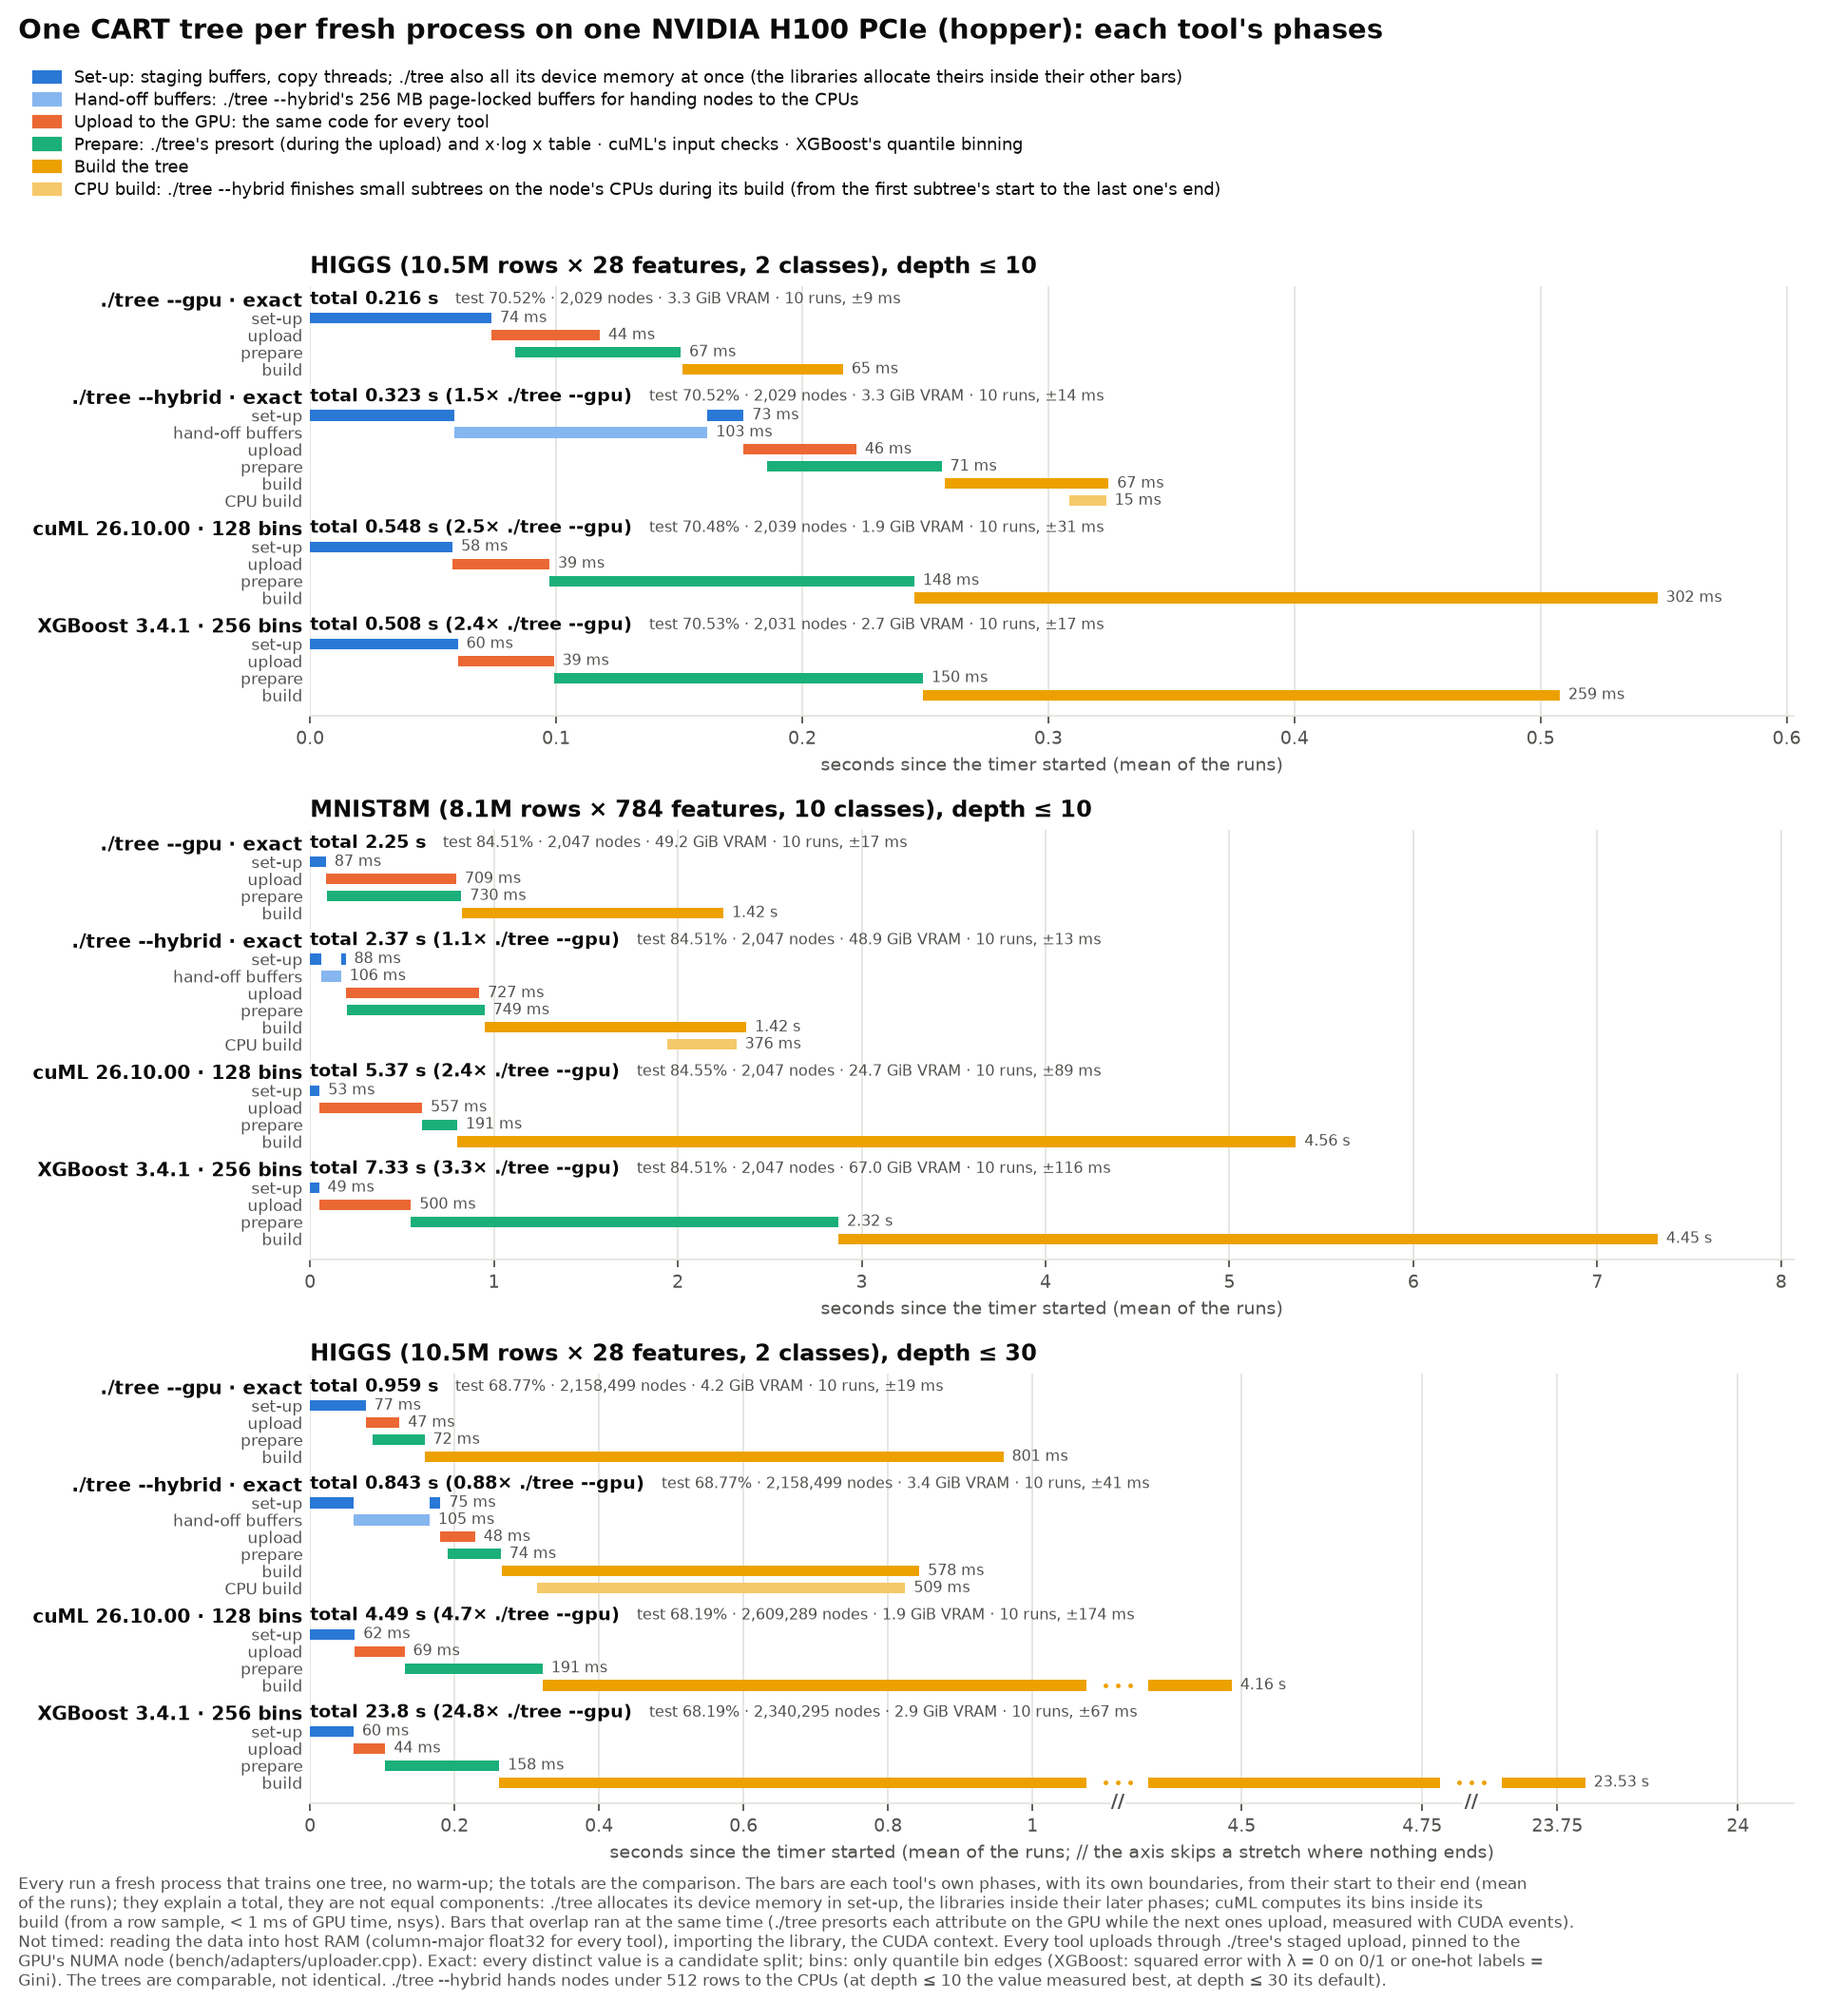
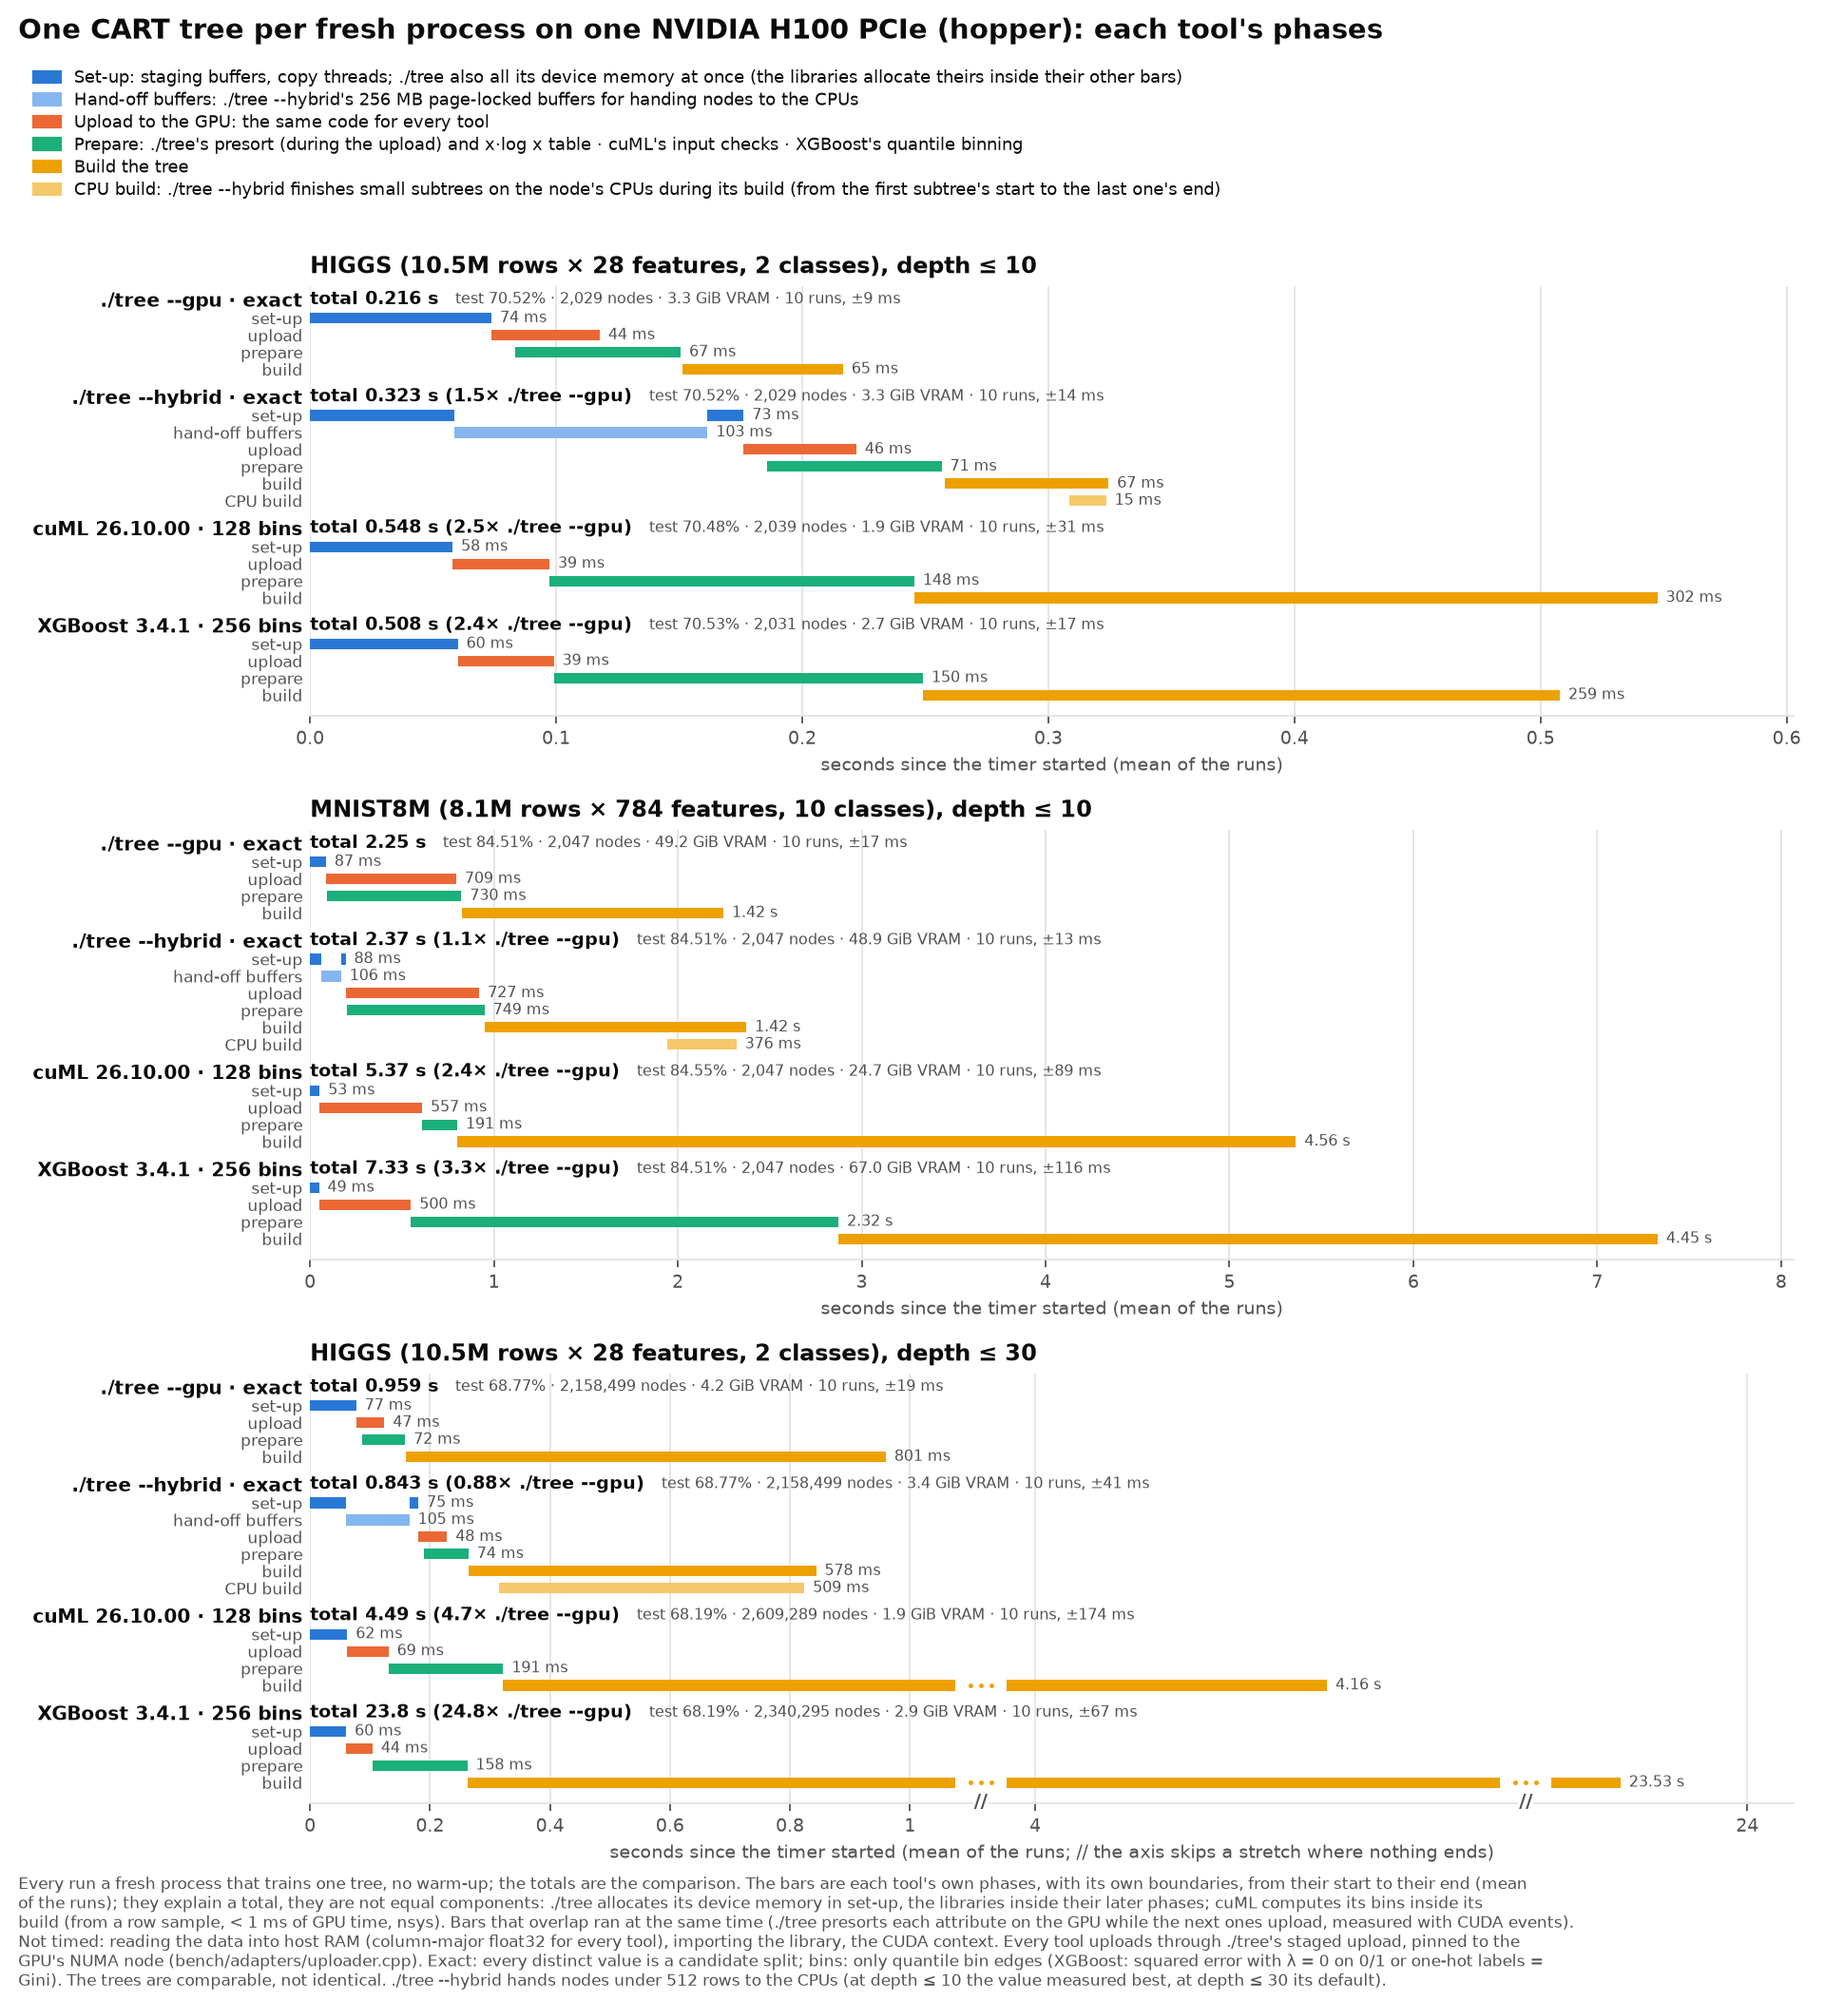
gpu_steps_chart.py: whole seconds on the axis after a break

diff --git a/bench/gpu_steps_chart.py b/bench/gpu_steps_chart.py
@@ -19,7 +19,7 @@ Where the times come from (all since the timer started, the mean of the runs):
   cuML,     gpubench.py: the host clock at each section's end, after
   XGBoost   cudaDeviceSynchronize, so its GPU work is inside it
 """
-import argparse, csv, json, statistics as st, textwrap
+import argparse, csv, json, math, statistics as st, textwrap
 from collections import defaultdict
 from pathlib import Path
 
@@ -170,7 +170,9 @@ def windows_of(tools):
         else:
             clusters.append([x, x])
     out = [(0.0, clusters[0][1] + 0.12 * lead)]
-    out += [(lo - 0.12 * lead, hi + 0.3 * lead) for lo, hi in clusters[1:]]  # room for the label after the end
+    for lo, hi in clusters[1:]:  # room for the label after the end, and the whole second nearest the end
+        whole = round(hi)
+        out.append((min(lo - 0.12 * lead, whole - 0.05 * lead), max(hi + 0.3 * lead, whole + 0.05 * lead)))
     return out
 
 
@@ -188,7 +190,8 @@ def axis_scale(ax, windows, gap):
     ax.set_xscale("function", functions=(lambda v: np.interp(v, data, shown), lambda v: np.interp(v, shown, data)))
     ticks = []
     for i, (lo, hi) in enumerate(windows):
-        ticks += [v for v in MaxNLocator(6 if i == 0 else 2).tick_values(lo, hi) if lo <= v <= hi]
+        ticks += ([v for v in MaxNLocator(6).tick_values(lo, hi) if lo <= v <= hi] if i == 0
+                  else list(range(math.ceil(lo), math.floor(hi) + 1)))  # after a break: whole seconds
     ax.set_xticks(ticks, [f"{v:g}" for v in ticks])
     for (_, hi), (lo, _) in zip(windows, windows[1:]):  # the cut: a break mark on the axis
         ax.text((hi + lo) / 2, 0, "//", transform=ax.get_xaxis_transform(), ha="center", va="center",
